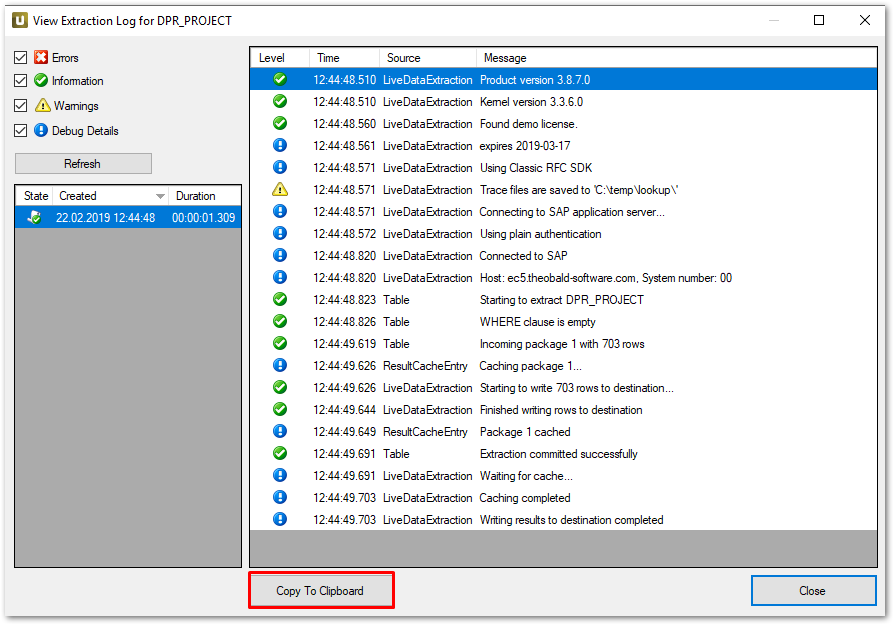
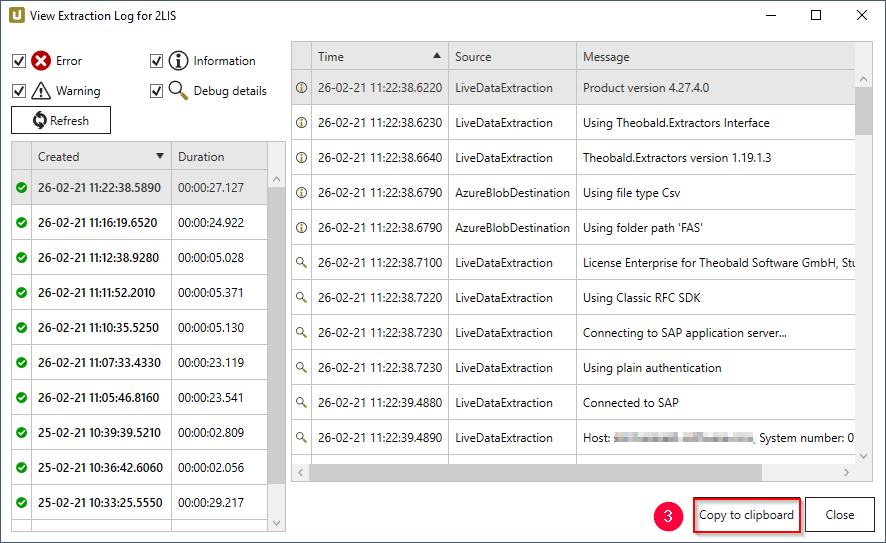
apdate required support infromation XU

diff --git a/content/_required-support-information/Xtract-Universal.md b/content/_required-support-information/Xtract-Universal.md
@@ -8,50 +8,51 @@ weight: 1
 
 In the event of a problem or error in connection with the use of our software, customers, partners and interested
 
-parties have the opportunity to submit support tickets via our [ticket system]( https://support.theobald-software.com/helpdesk) . 
+parties have the opportunity to submit support tickets via our [ticket system]( https://support.theobald-software.com/helpdesk). 
 
-In order to offer our customers and prospects a competent service, we need the following information about the use of our software and the 
-
-architecture used in your system landscape.
+In order to offer our customers and prospects a competent service, we need the following information about the use of our software and the architecture used in your system landscape.
 
 The most important information about errors or problems is ensured by the transmission of complete logs in text / excel format.
 
-The customer-specific settings can be visualized as screenshots. All of the following information can be determined independently by the 
+The customer-specific settings can be visualized as screenshots. All of the following information can be determined independently by the user of our Xtract products.
 
-user of our Xtract products.
+### Mandatory Information
+The following information is required to process a support ticket. Transmit **entire** log and no excerpts.
 
-## Mandatory
-The following information is required to process a support ticket. Transmit entire log and no excerpts.
+#### Extraction Log
 
-### Extraction Log
+- Select the faulty extraction in the Xtract Universal Designer (1) 
+- Click on **[Log]** to open the corresponding extraction log (2)
+- Copy the entire log information by **[Copy to clipboard]** (3)
 
-- Right click on the extraction in the Xtract Universal Designer 
-- Save to text file by Copy to Clipboard
-
-![XU-Log](/img/contents/xu_log_rechtsklick.png){:class="img-responsive"}
+![XU-Log](/img/contents/open_extraction_log_window.png){:class="img-responsive"}
 
 ![XU-Log](/img/contents/xu_log_copy.png){:class="img-responsive"}
 
-## Optional 
+### Optional information 
 
-This information is optional and can be requested by the technician. Please always send the complete log and no excerpts.
+This information is optional and can be requested by the technician. 
 
-### Trace files 
+#### Trace files 
 
-- activate the trace function , see [debug logging](https://help.theobald-software.com/en/xtract-universal/logging/logging-debug#activating-tracing) .
+- Activate the trace function , see [acticate tracing](https://help.theobald-software.com/en/xtract-universal/logging/logging-debug#activating-tracing) .
  
-### Extraction settings
+#### Extraction settings
 
-- mark the extraction
-- select destination and create screenshot
+- Double-click on the corresponding extraction (4)
+- Click on **[Extraction Settings]** (5)
+- Create screenshot of the extraction settings (6)
+
+![XU-table_extraction_settings](/img/contents/xu_extraction_settings.png){:class="img-responsive"}
+
+#### Destination settings
+
+- Select the corresponding extraction (7)
+- Right-click on **[Destination settings]** and create screenshot (8)
 
 ![XU-extraction_settings](/img/contents/xu_destinantion_settings.png){:class="img-responsive"}
 
-- double click on the extraction (1)
-- select *extraction settings* (2)
-- create screenshot of settings (3)
 
-![XU-table_extraction_settings](/img/contents/xu_extraction_settings.png){:class="img-responsive"}
 
 
 
